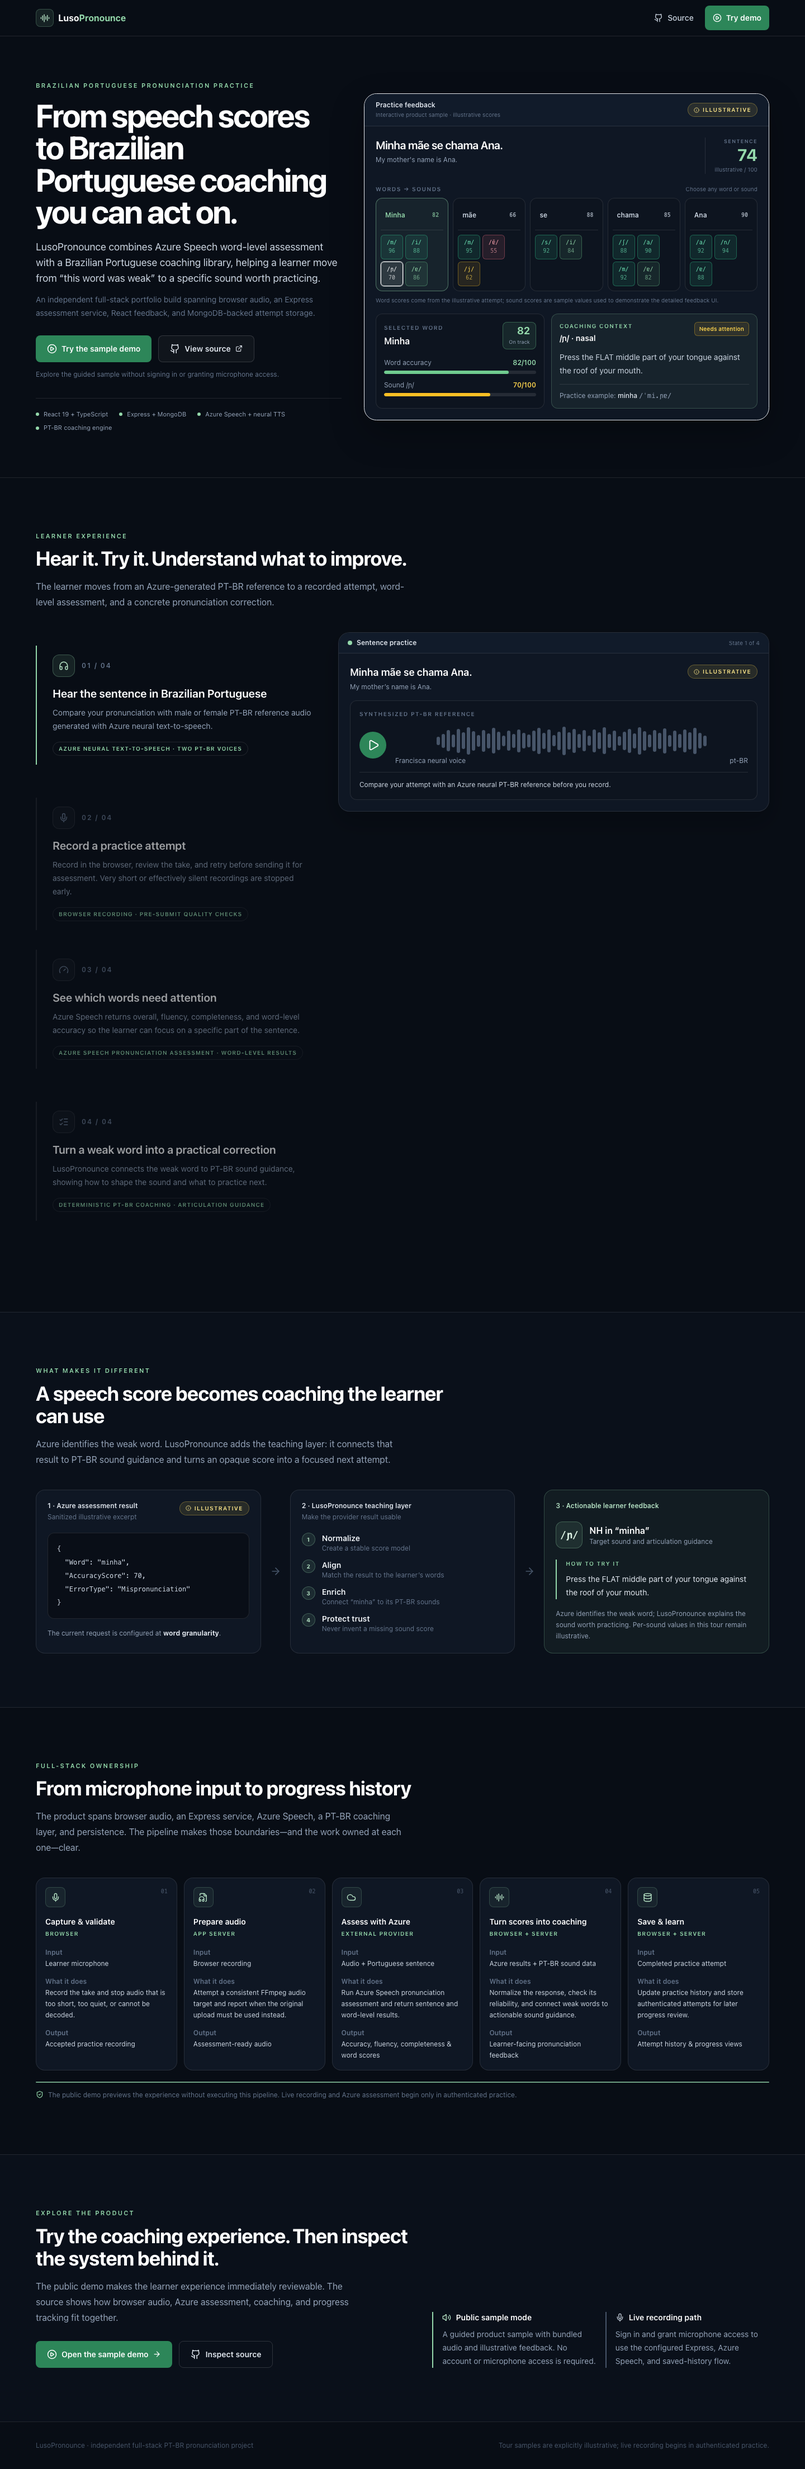
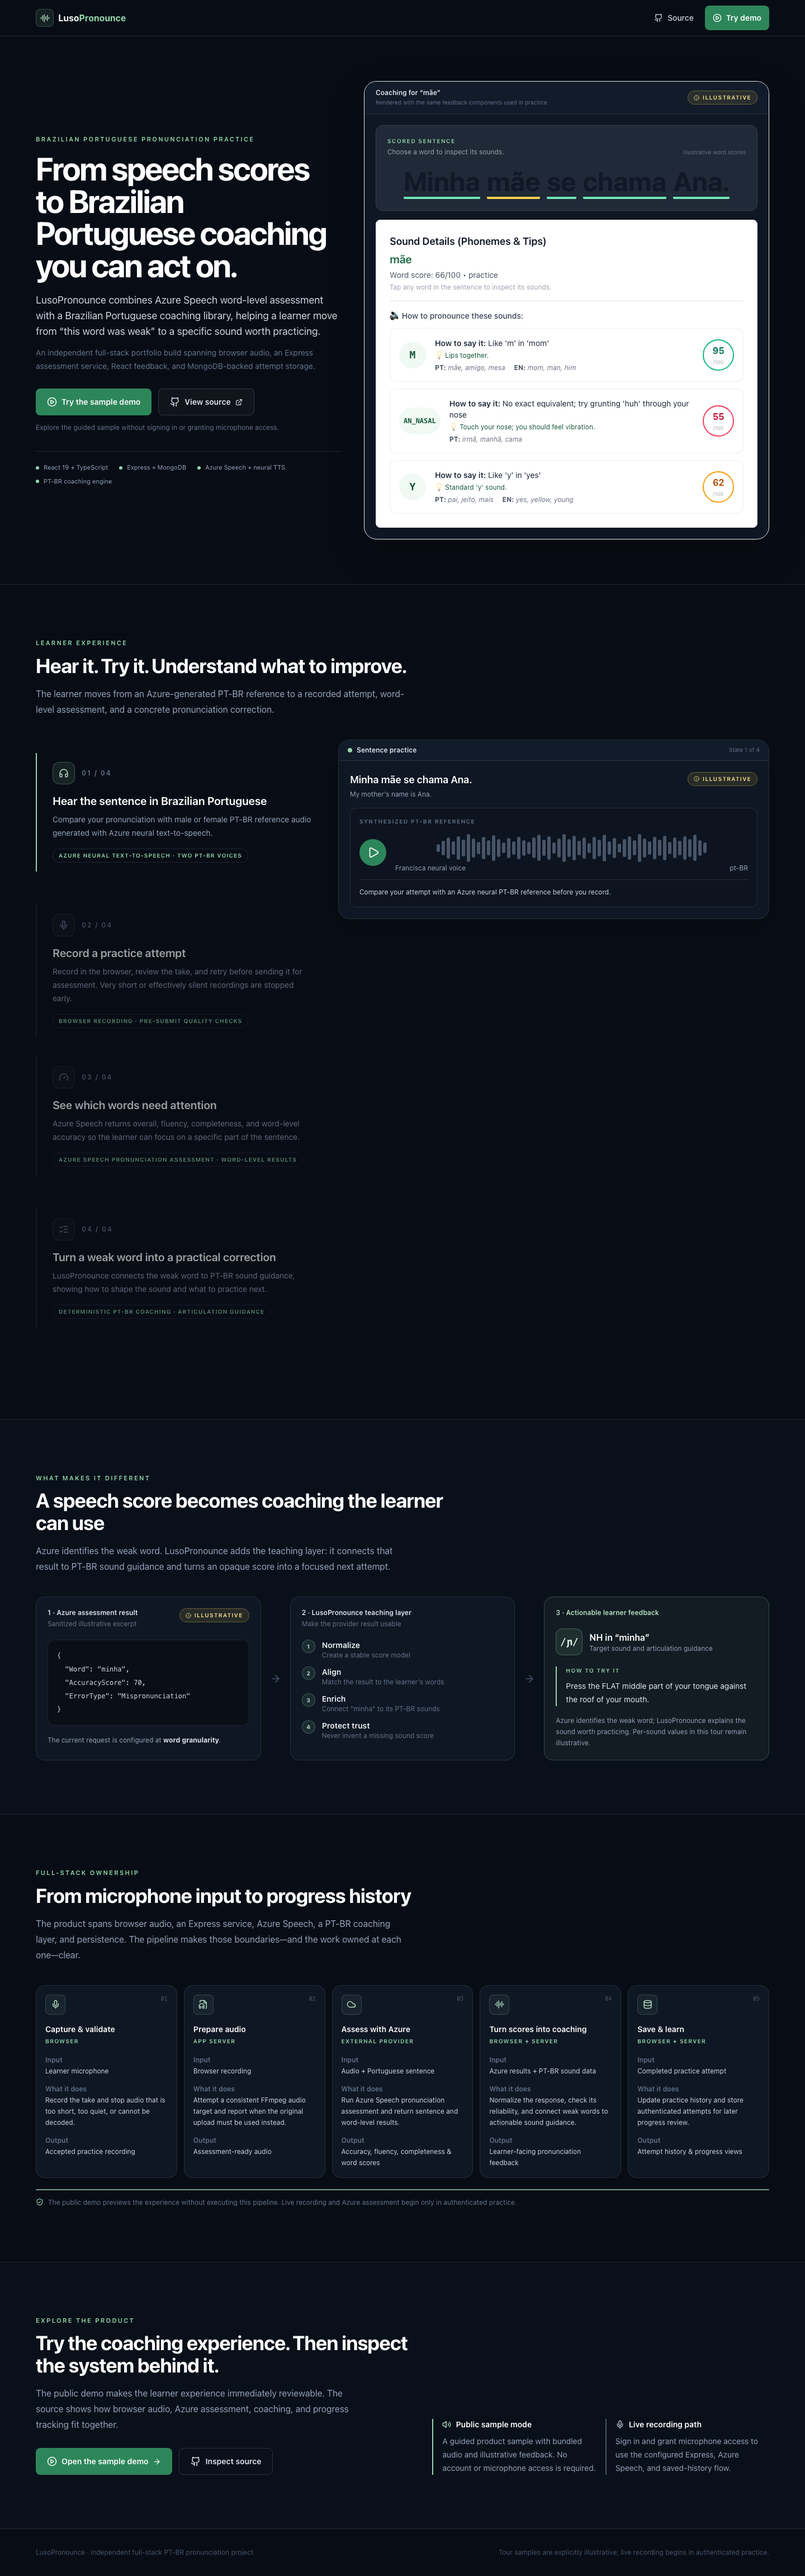
refactor(tour): render real word coaching UI

diff --git a/src/pages/tour/TourVisuals.tsx b/src/pages/tour/TourVisuals.tsx
@@ -9,6 +9,11 @@ import {
   ShieldCheck,
   Volume2,
 } from 'lucide-react';
+import InteractiveSentenceDisplay from '@/components/practice/InteractiveSentenceDisplay';
+import {
+  PhonemePanel,
+  type NormalizedWordFeedback,
+} from '@/components/pronunciation/shared';
 import { getDemoItem, getDemoNativeAudioUrl } from '@/lib/demo/demoData';
 import { getPhonemeById } from '@/lib/phonemeMetadata';
 import { PIPELINE_STAGES } from './tourContent';
@@ -69,198 +74,80 @@ export function SampleLabel({ compact = false }: { compact?: boolean }) {
   );
 }
 
-function ScoreMeter({ label, value }: { label: string; value: number }) {
-  const band = scoreBand(value);
-  return (
-    <div>
-      <div className="mb-1.5 flex items-center justify-between gap-3 text-xs">
-        <span className="text-slate-400">{label}</span>
-        <span className={`font-semibold ${band.text}`}>{value}/100</span>
-      </div>
-      <div className="h-1.5 overflow-hidden rounded-full bg-white/10">
-        <div
-          className={`h-full rounded-full transition-[width] duration-300 motion-reduce:transition-none ${band.bar}`}
-          style={{ width: `${value}%` }}
-        />
-      </div>
-    </div>
-  );
-}
-
 function cleanWord(value: string): string {
   return value.replace(/[.,!?]/g, '');
 }
 
-/** Interactive, deterministic sample used as the hero product demonstration. */
+const HERO_WORDS: NormalizedWordFeedback[] = SAMPLE.words.map((word, index) => ({
+  id: `tour-word-${index}`,
+  index,
+  text: cleanWord(word.text),
+  accuracyScore: word.score,
+  score: word.score,
+  errorType: word.errorType ?? null,
+  level:
+    word.score >= 90
+      ? 'excellent'
+      : word.score >= 80
+        ? 'good'
+        : word.score >= 70
+          ? 'ok'
+          : 'practice',
+  phonemes: word.phonemes.map((phoneme) => ({
+    symbol: phoneme.symbol,
+    score: phoneme.score,
+    isProblem: phoneme.score < 75,
+    tip: phoneme.score < 75 ? word.tip : undefined,
+  })),
+}));
+
+const DEFAULT_HERO_WORD = HERO_WORDS.reduce((weakest, word) =>
+  word.accuracyScore < weakest.accuracyScore ? word : weakest,
+);
+
+const HERO_WORD_SCORES = HERO_WORDS.map((word) => ({
+  word: word.text,
+  overallScore: word.accuracyScore,
+  normalizedWord: word,
+}));
+
+/** Deterministic tour sample rendered with the app's production coaching components. */
 export function InteractiveAttemptFrame() {
-  const [selectedWordIndex, setSelectedWordIndex] = useState(0);
-  const [selectedPhonemeIndex, setSelectedPhonemeIndex] = useState(2);
-
-  const selectedWord = SAMPLE.words[selectedWordIndex] ?? SAMPLE.words[0];
-  const selectedPhoneme = selectedWord.phonemes[selectedPhonemeIndex] ?? selectedWord.phonemes[0];
-  const metadata = getPhonemeById(selectedPhoneme.symbol);
-  const wordBand = scoreBand(selectedWord.score);
-  const phonemeBand = scoreBand(selectedPhoneme.score);
-
-  const selectWord = (wordIndex: number) => {
-    const word = SAMPLE.words[wordIndex];
-    const weakestIndex = word.phonemes.reduce(
-      (weakest, phoneme, index) =>
-        phoneme.score < word.phonemes[weakest].score ? index : weakest,
-      0,
-    );
-    setSelectedWordIndex(wordIndex);
-    setSelectedPhonemeIndex(weakestIndex);
-  };
-
-  const selectSound = (wordIndex: number, phonemeIndex: number) => {
-    setSelectedWordIndex(wordIndex);
-    setSelectedPhonemeIndex(phonemeIndex);
-  };
-
-  const coaching =
-    metadata?.teachingTips?.[0] ??
-    metadata?.articulation ??
-    selectedWord.tip ??
-    'Listen to the reference, isolate this sound, and retry the word slowly.';
+  const [selectedWord, setSelectedWord] = useState<NormalizedWordFeedback>(DEFAULT_HERO_WORD);
 
   return (
-    <div className="overflow-hidden rounded-[1.4rem] border border-white/12 bg-[#0f1724] shadow-[0_24px_60px_rgba(0,0,0,0.28)]">
+    <div className="dark overflow-hidden rounded-[1.4rem] border border-white/12 bg-[#0f1724] shadow-[0_24px_60px_rgba(0,0,0,0.28)]">
       <div className="flex items-center justify-between gap-3 border-b border-white/10 bg-[#111b2a] px-4 py-3 sm:px-5">
         <div>
-          <p className="text-xs font-semibold text-slate-200">Practice feedback</p>
-          <p className="mt-0.5 text-[10px] text-slate-500">Interactive product sample · illustrative scores</p>
+          <p className="text-xs font-semibold text-slate-200">Coaching for “{selectedWord.text}”</p>
+          <p className="mt-0.5 text-[10px] text-slate-500">Rendered with the same feedback components used in practice</p>
         </div>
         <SampleLabel compact />
       </div>
 
-      <div className="p-4 sm:p-5">
-        <div className="flex items-start justify-between gap-4">
-          <div className="min-w-0">
-            <p className="text-lg font-semibold tracking-tight text-white sm:text-xl">{SAMPLE.text}</p>
-            <p className="mt-1 text-xs text-slate-400">{SAMPLE.translation}</p>
-          </div>
-          <div className="shrink-0 border-l border-white/10 pl-4 text-right">
-            <p className="text-[9px] font-semibold uppercase tracking-[0.14em] text-slate-500">Sentence</p>
-            <p className="mt-0.5 text-3xl font-bold leading-none text-primary-300">
-              {Math.round(SAMPLE.attempt.overallAccuracy)}
-            </p>
-            <p className="mt-1 text-[10px] text-slate-500">illustrative / 100</p>
-          </div>
-        </div>
-
-        <div className="mt-5" aria-label="Words and their pronunciation sounds">
-          <div className="mb-2 flex flex-wrap items-end justify-between gap-2">
-            <p className="text-[10px] font-semibold uppercase tracking-[0.14em] text-slate-500">
-              Words → sounds
-            </p>
-            <p className="text-[10px] text-slate-500">Choose any word or sound</p>
-          </div>
-          <div className="flex flex-wrap gap-2">
-            {SAMPLE.words.map((word, wordIndex) => {
-              const wordActive = wordIndex === selectedWordIndex;
-              const wordBand = scoreBand(word.score);
-              return (
-                <div
-                  key={`${word.text}-${wordIndex}`}
-                  className={`min-w-[5.5rem] flex-1 rounded-xl border p-2 transition-colors motion-reduce:transition-none ${
-                    wordActive
-                      ? 'border-primary-300/45 bg-primary-300/[0.06]'
-                      : 'border-white/10 bg-black/15'
-                  }`}
-                  role="group"
-                  aria-label={`${cleanWord(word.text)}, illustrative word score ${word.score}`}
-                >
-                  <button
-                    type="button"
-                    onClick={() => selectWord(wordIndex)}
-                    onFocus={() => selectWord(wordIndex)}
-                    aria-pressed={wordActive}
-                    className={`flex min-h-11 w-full items-center justify-between gap-2 rounded-lg px-2 text-left text-xs font-semibold focus-visible:outline-none focus-visible:ring-2 focus-visible:ring-primary-300 ${
-                      wordActive ? wordBand.text : 'text-slate-300 hover:bg-white/5'
-                    }`}
-                  >
-                    <span>{cleanWord(word.text)}</span>
-                    <span className="font-mono text-[10px] opacity-75">{word.score}</span>
-                  </button>
-                  <div className="mt-1 flex flex-wrap gap-1 border-t border-white/10 pt-2">
-                    {word.phonemes.map((phoneme, phonemeIndex) => {
-                      const meta = getPhonemeById(phoneme.symbol);
-                      const soundActive = wordActive && phonemeIndex === selectedPhonemeIndex;
-                      const band = scoreBand(phoneme.score);
-                      return (
-                        <button
-                          key={`${phoneme.symbol}-${phonemeIndex}`}
-                          type="button"
-                          onClick={() => selectSound(wordIndex, phonemeIndex)}
-                          aria-pressed={soundActive}
-                          className={`flex min-h-11 min-w-10 flex-col items-center justify-center rounded-md border px-1.5 font-mono text-[10px] leading-tight transition-colors focus-visible:outline-none focus-visible:ring-2 focus-visible:ring-primary-300 motion-reduce:transition-none ${
-                            soundActive
-                              ? 'border-white bg-white/10 text-white ring-1 ring-white/35'
-                              : `${band.border} ${band.background} ${band.text} hover:border-white/40`
-                          }`}
-                          aria-label={`Inspect ${cleanWord(word.text)} sound ${meta?.ipa ?? phoneme.symbol}, illustrative score ${phoneme.score}`}
-                        >
-                          <span>/{meta?.ipa ?? phoneme.symbol}/</span>
-                          <span className="mt-0.5 opacity-65">{phoneme.score}</span>
-                        </button>
-                      );
-                    })}
-                  </div>
-                </div>
-              );
-            })}
-          </div>
-          <p className="mt-2 text-[10px] leading-4 text-slate-500">
-            Word scores come from the illustrative attempt; sound scores are sample values used to demonstrate the detailed feedback UI.
-          </p>
-        </div>
-
-        <div className="mt-4 grid gap-3 sm:grid-cols-[0.9fr_1.1fr]">
-          <div className="rounded-xl border border-white/10 bg-black/15 p-3.5">
-            <div className="flex items-center justify-between gap-3">
-              <div>
-                <p className="text-[10px] font-semibold uppercase tracking-[0.14em] text-slate-500">
-                  Selected word
-                </p>
-                <p className="mt-1 text-base font-semibold text-white">{cleanWord(selectedWord.text)}</p>
-              </div>
-              <div className={`rounded-lg border px-2.5 py-1.5 text-right ${wordBand.border} ${wordBand.background}`}>
-                <p className={`text-lg font-bold leading-none ${wordBand.text}`}>{selectedWord.score}</p>
-                <p className="mt-1 text-[9px] text-slate-400">{wordBand.label}</p>
-              </div>
-            </div>
-            <div className="mt-4 space-y-3">
-              <ScoreMeter label="Word accuracy" value={selectedWord.score} />
-              <ScoreMeter label={`Sound /${metadata?.ipa ?? selectedPhoneme.symbol}/`} value={selectedPhoneme.score} />
-            </div>
-          </div>
-
-          <div className="rounded-xl border border-primary-300/25 bg-primary-300/[0.06] p-3.5" aria-live="polite">
-            <div className="flex items-start justify-between gap-3">
-              <div>
-                <p className="text-[10px] font-semibold uppercase tracking-[0.14em] text-primary-300">
-                  Coaching context
-                </p>
-                <p className="mt-1 text-sm font-semibold text-white">
-                  /{metadata?.ipa ?? selectedPhoneme.symbol}/ · {metadata?.category ?? 'PT-BR sound'}
-                </p>
-              </div>
-              <span className={`rounded-md border px-2 py-1 text-[10px] font-semibold ${phonemeBand.border} ${phonemeBand.background} ${phonemeBand.text}`}>
-                {phonemeBand.label}
-              </span>
-            </div>
-            <p className="mt-3 text-sm leading-6 text-slate-300">{coaching}</p>
-            {metadata?.exampleWords?.[0] && (
-              <p className="mt-3 border-t border-white/10 pt-3 text-xs text-slate-400">
-                Practice example:{' '}
-                <span className="font-medium text-slate-200">{metadata.exampleWords[0].pt}</span>{' '}
-                <span className="font-mono">/{metadata.exampleWords[0].ipa}/</span>
+      <div className="space-y-4 p-4 sm:p-5">
+        <div className="rounded-xl border border-gray-700 bg-gray-800 p-4 sm:p-5">
+          <div className="mb-5 flex flex-wrap items-end justify-between gap-2">
+            <div>
+              <p className="text-[10px] font-semibold uppercase tracking-[0.14em] text-primary-300">
+                Scored sentence
               </p>
-            )}
+              <p className="mt-1 text-xs text-gray-400">Choose a word to inspect its sounds.</p>
+            </div>
+            <p className="text-[10px] text-gray-500">Illustrative word scores</p>
           </div>
+          <InteractiveSentenceDisplay
+            sentenceText={SAMPLE.text}
+            wordScores={HERO_WORD_SCORES}
+            onWordClick={(wordData) => {
+              if (wordData.normalizedWord) setSelectedWord(wordData.normalizedWord);
+            }}
+          />
         </div>
 
+        <div aria-live="polite">
+          <PhonemePanel word={selectedWord} trustLevel="trusted" />
+        </div>
       </div>
     </div>
   );

diff --git a/e2e/tour.spec.ts b/e2e/tour.spec.ts
@@ -30,7 +30,7 @@ async function openTour(page: Page) {
 
   await page.goto('/tour', { waitUntil: 'networkidle' });
   await expect(page.getByRole('heading', { level: 1 })).toContainText('From speech scores');
-  await expect(page.getByText(/interactive product sample · illustrative scores/i)).toBeVisible();
+  await expect(page.getByText(/rendered with the same feedback components used in practice/i)).toBeVisible();
   await page.waitForTimeout(750);
 
   return { errors, assessmentRequests };
@@ -68,10 +68,13 @@ test.describe('public tour', () => {
     await page.setViewportSize({ width: 1440, height: 1000 });
     await openTour(page);
 
-    const nasalSound = page.getByRole('button', { name: /inspect mãe sound ɐ̃/i });
-    await nasalSound.focus();
+    const selectedWord = page.getByRole('button', { name: 'Minha', exact: true });
+    await selectedWord.focus();
     await page.keyboard.press('Enter');
-    await expect(page.getByText(/touch your nose; you should feel vibration/i)).toBeVisible();
+    await expect(page.getByText(/word score: 82\/100/i)).toBeVisible();
+    await expect(
+      page.getByText(/^💡 Press the FLAT middle part of your tongue against the roof of your mouth\.$/i),
+    ).toBeVisible();
 
     const recordingStep = page.getByRole('button', { name: /02 \/ 04/i });
     await recordingStep.click();

diff --git a/src/pages/tour/TourVisuals.test.tsx b/src/pages/tour/TourVisuals.test.tsx
@@ -11,15 +11,17 @@ describe('tour evidence visuals', () => {
     vi.spyOn(HTMLMediaElement.prototype, 'pause').mockImplementation(() => undefined);
   });
 
-  it('updates the selected sound and coaching from deterministic repository metadata', () => {
+  it('renders the production word-coaching UI and switches its selected word', () => {
     render(<InteractiveAttemptFrame />);
 
     expect(screen.getAllByText(/^illustrative$/i).length).toBeGreaterThan(0);
-    const nasalSound = screen.getByRole('button', { name: /inspect mãe sound ɐ̃/i });
-    fireEvent.click(nasalSound);
-
+    expect(screen.getByText(/word score: 66\/100/i)).toBeInTheDocument();
     expect(screen.getByText(/touch your nose; you should feel vibration/i)).toBeInTheDocument();
-    expect(nasalSound).toHaveAttribute('aria-pressed', 'true');
+
+    fireEvent.click(screen.getByRole('button', { name: 'Minha' }));
+
+    expect(screen.getByText(/word score: 82\/100/i)).toBeInTheDocument();
+    expect(screen.getByText(/press the flat middle part of your tongue/i)).toBeInTheDocument();
   });
 
   it('describes the current provider granularity without inventing phoneme scores', () => {

diff --git a/docs/tour-redesign-structure.md b/docs/tour-redesign-structure.md
@@ -4,7 +4,7 @@ The new `/tour` is a guided product story designed to communicate the product in
 
 ## Narrative order
 
-1. **Compact hero — product value first.** “From speech scores to Brazilian Portuguese coaching you can act on.” The right-hand product frame is an interactive illustrative attempt. Words are grouped with their nested sounds, and either level updates the score context and coaching panel. The sample label remains visible at all times.
+1. **Compact hero — product value first.** “From speech scores to Brazilian Portuguese coaching you can act on.” The right-hand product frame renders the same scored-sentence and Sound Details components used by the practice experience. It opens on the weakest illustrative word, and choosing another word updates the real coaching panel. The sample label remains visible at all times.
 2. **Guided walkthrough — the real learner sequence.** Four selectable steps explain reference playback, browser capture, returned word scores, and word-to-sound coaching. Desktop uses a sticky product frame plus scroll/click activation; mobile uses a readable horizontal stepper and non-sticky frame.
 3. **Distinctive transformation — provider result to teaching context.** A compact, sanitized word-level Azure-style excerpt flows through LusoPronounce’s normalization and PT-BR teaching layer into learner-facing feedback. The section explicitly states that the current live provider path is word-level.
 4. **Full-stack pipeline — ownership and boundaries.** A five-stage responsive pipeline prioritizes the technically substantial work: browser capture and validation, server audio preparation, Azure Speech assessment, the coaching layer, and attempt history. Each stage states input, responsibility, and output without exposing implementation filenames in the primary narrative.
